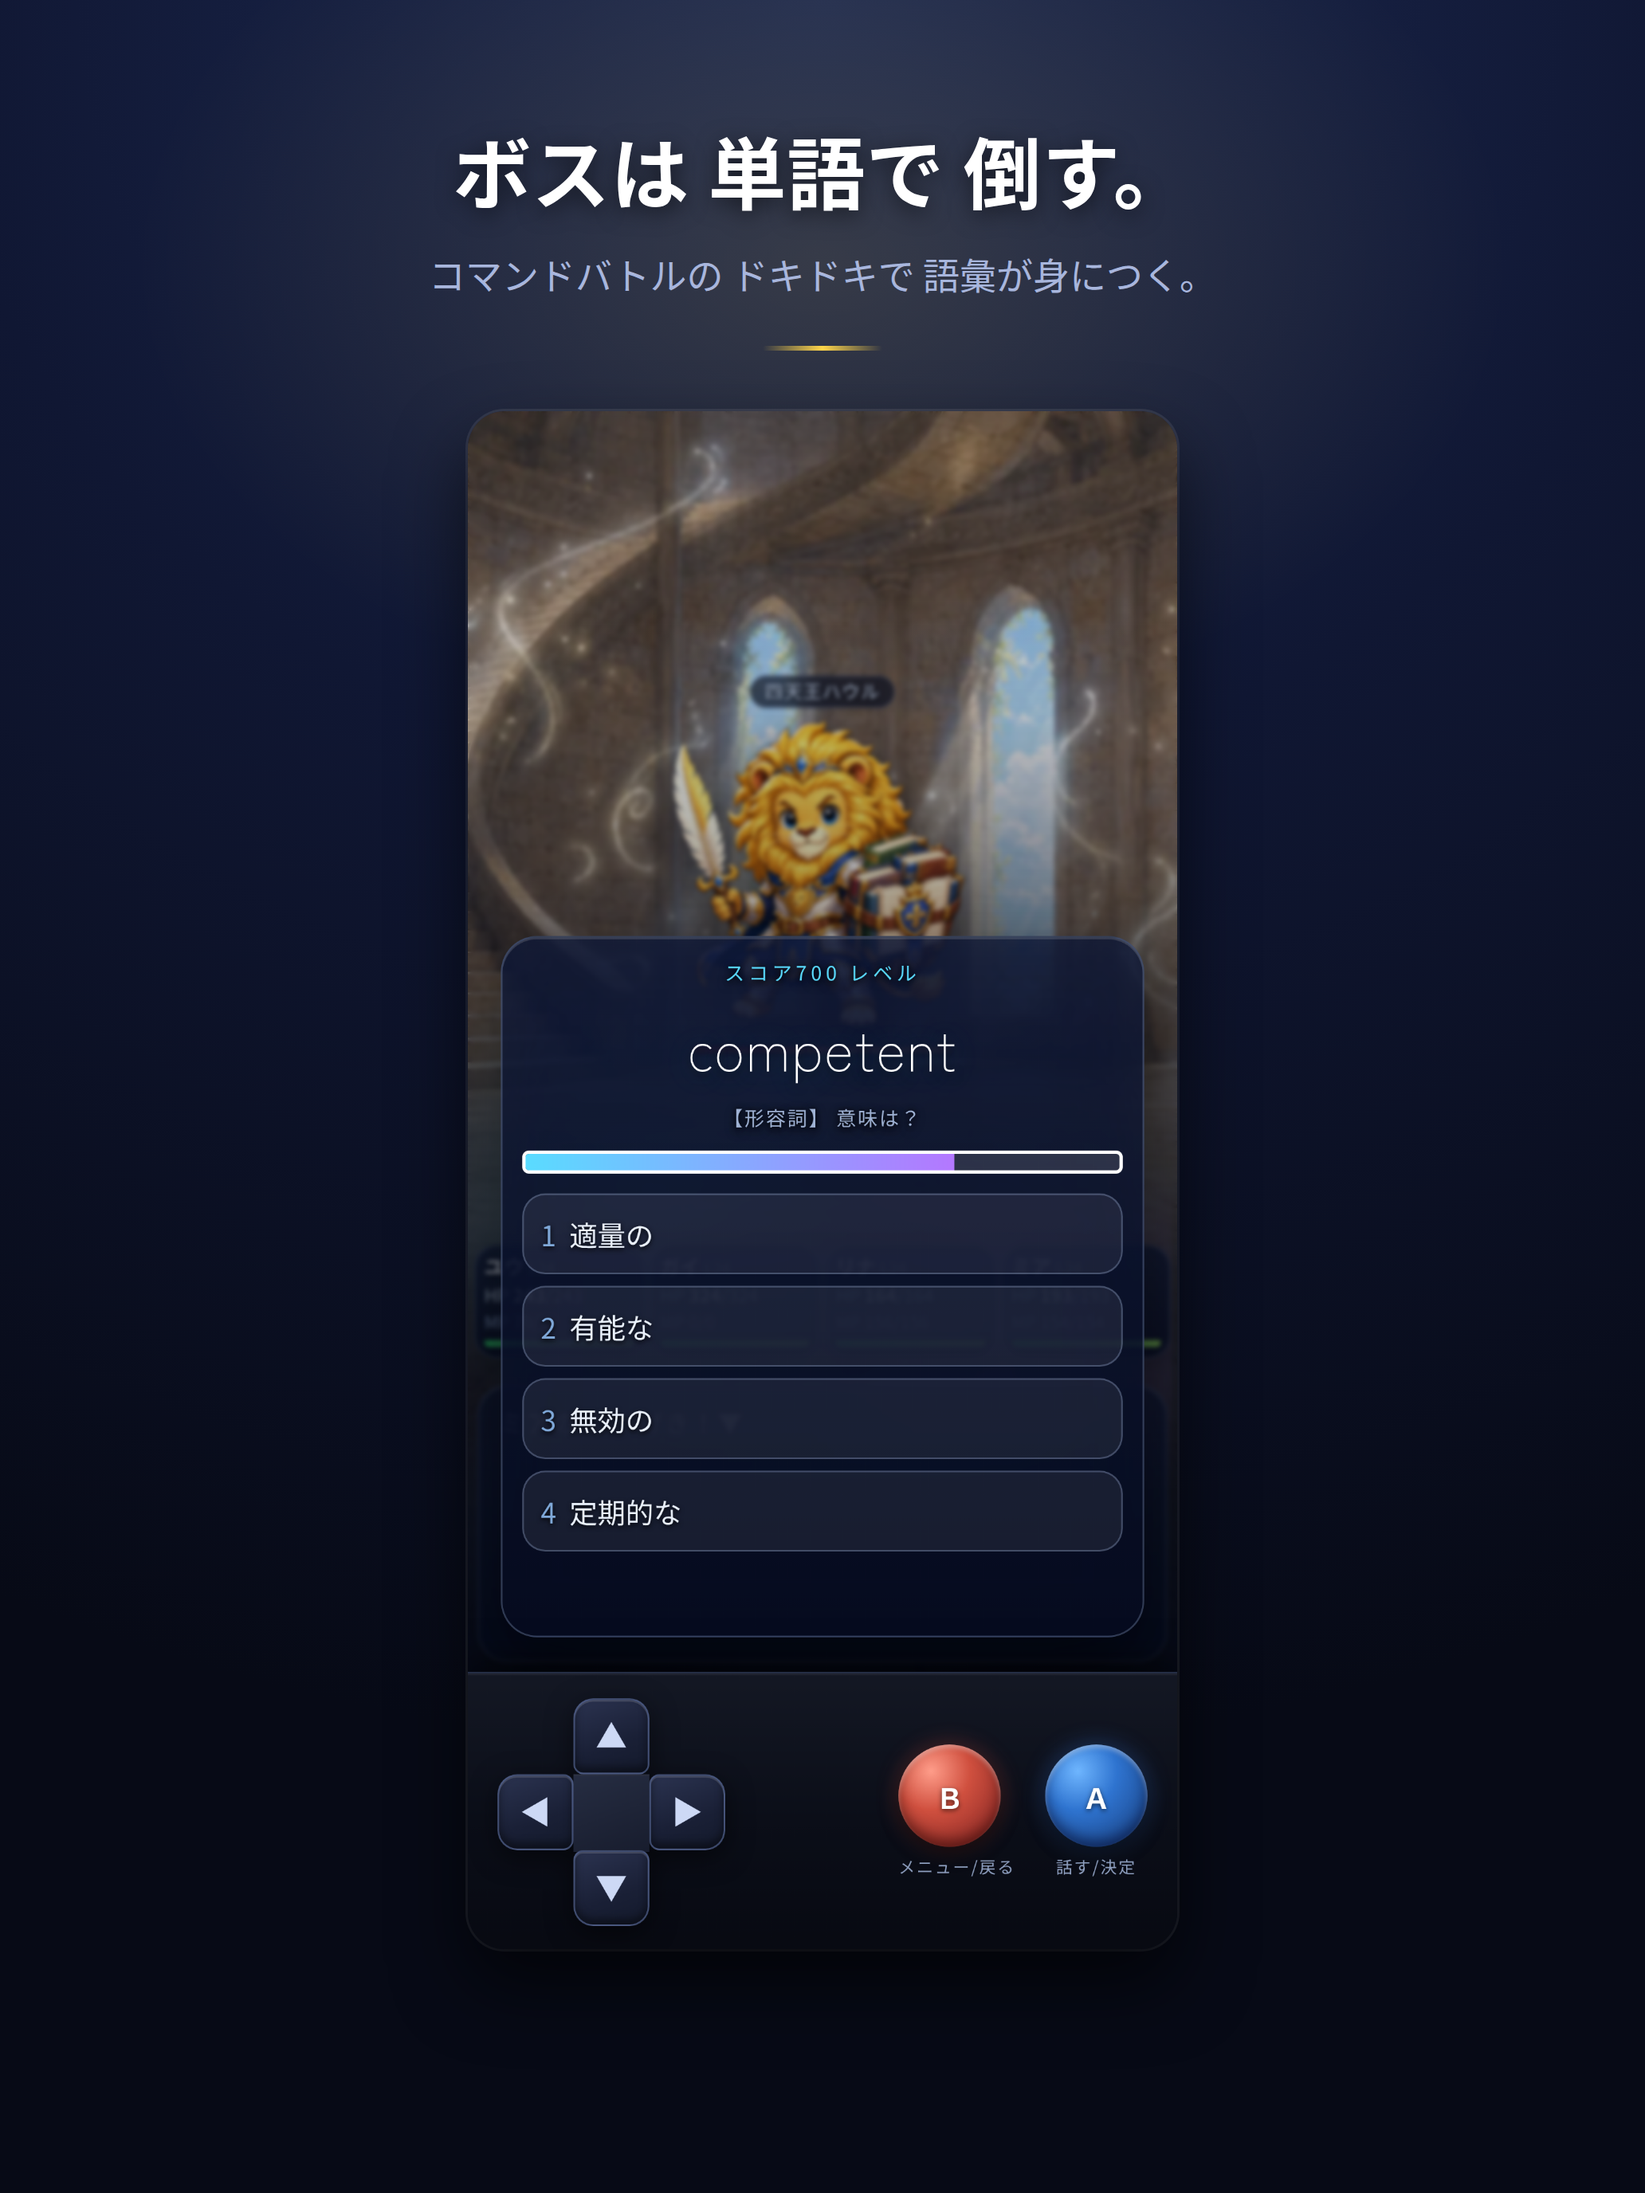
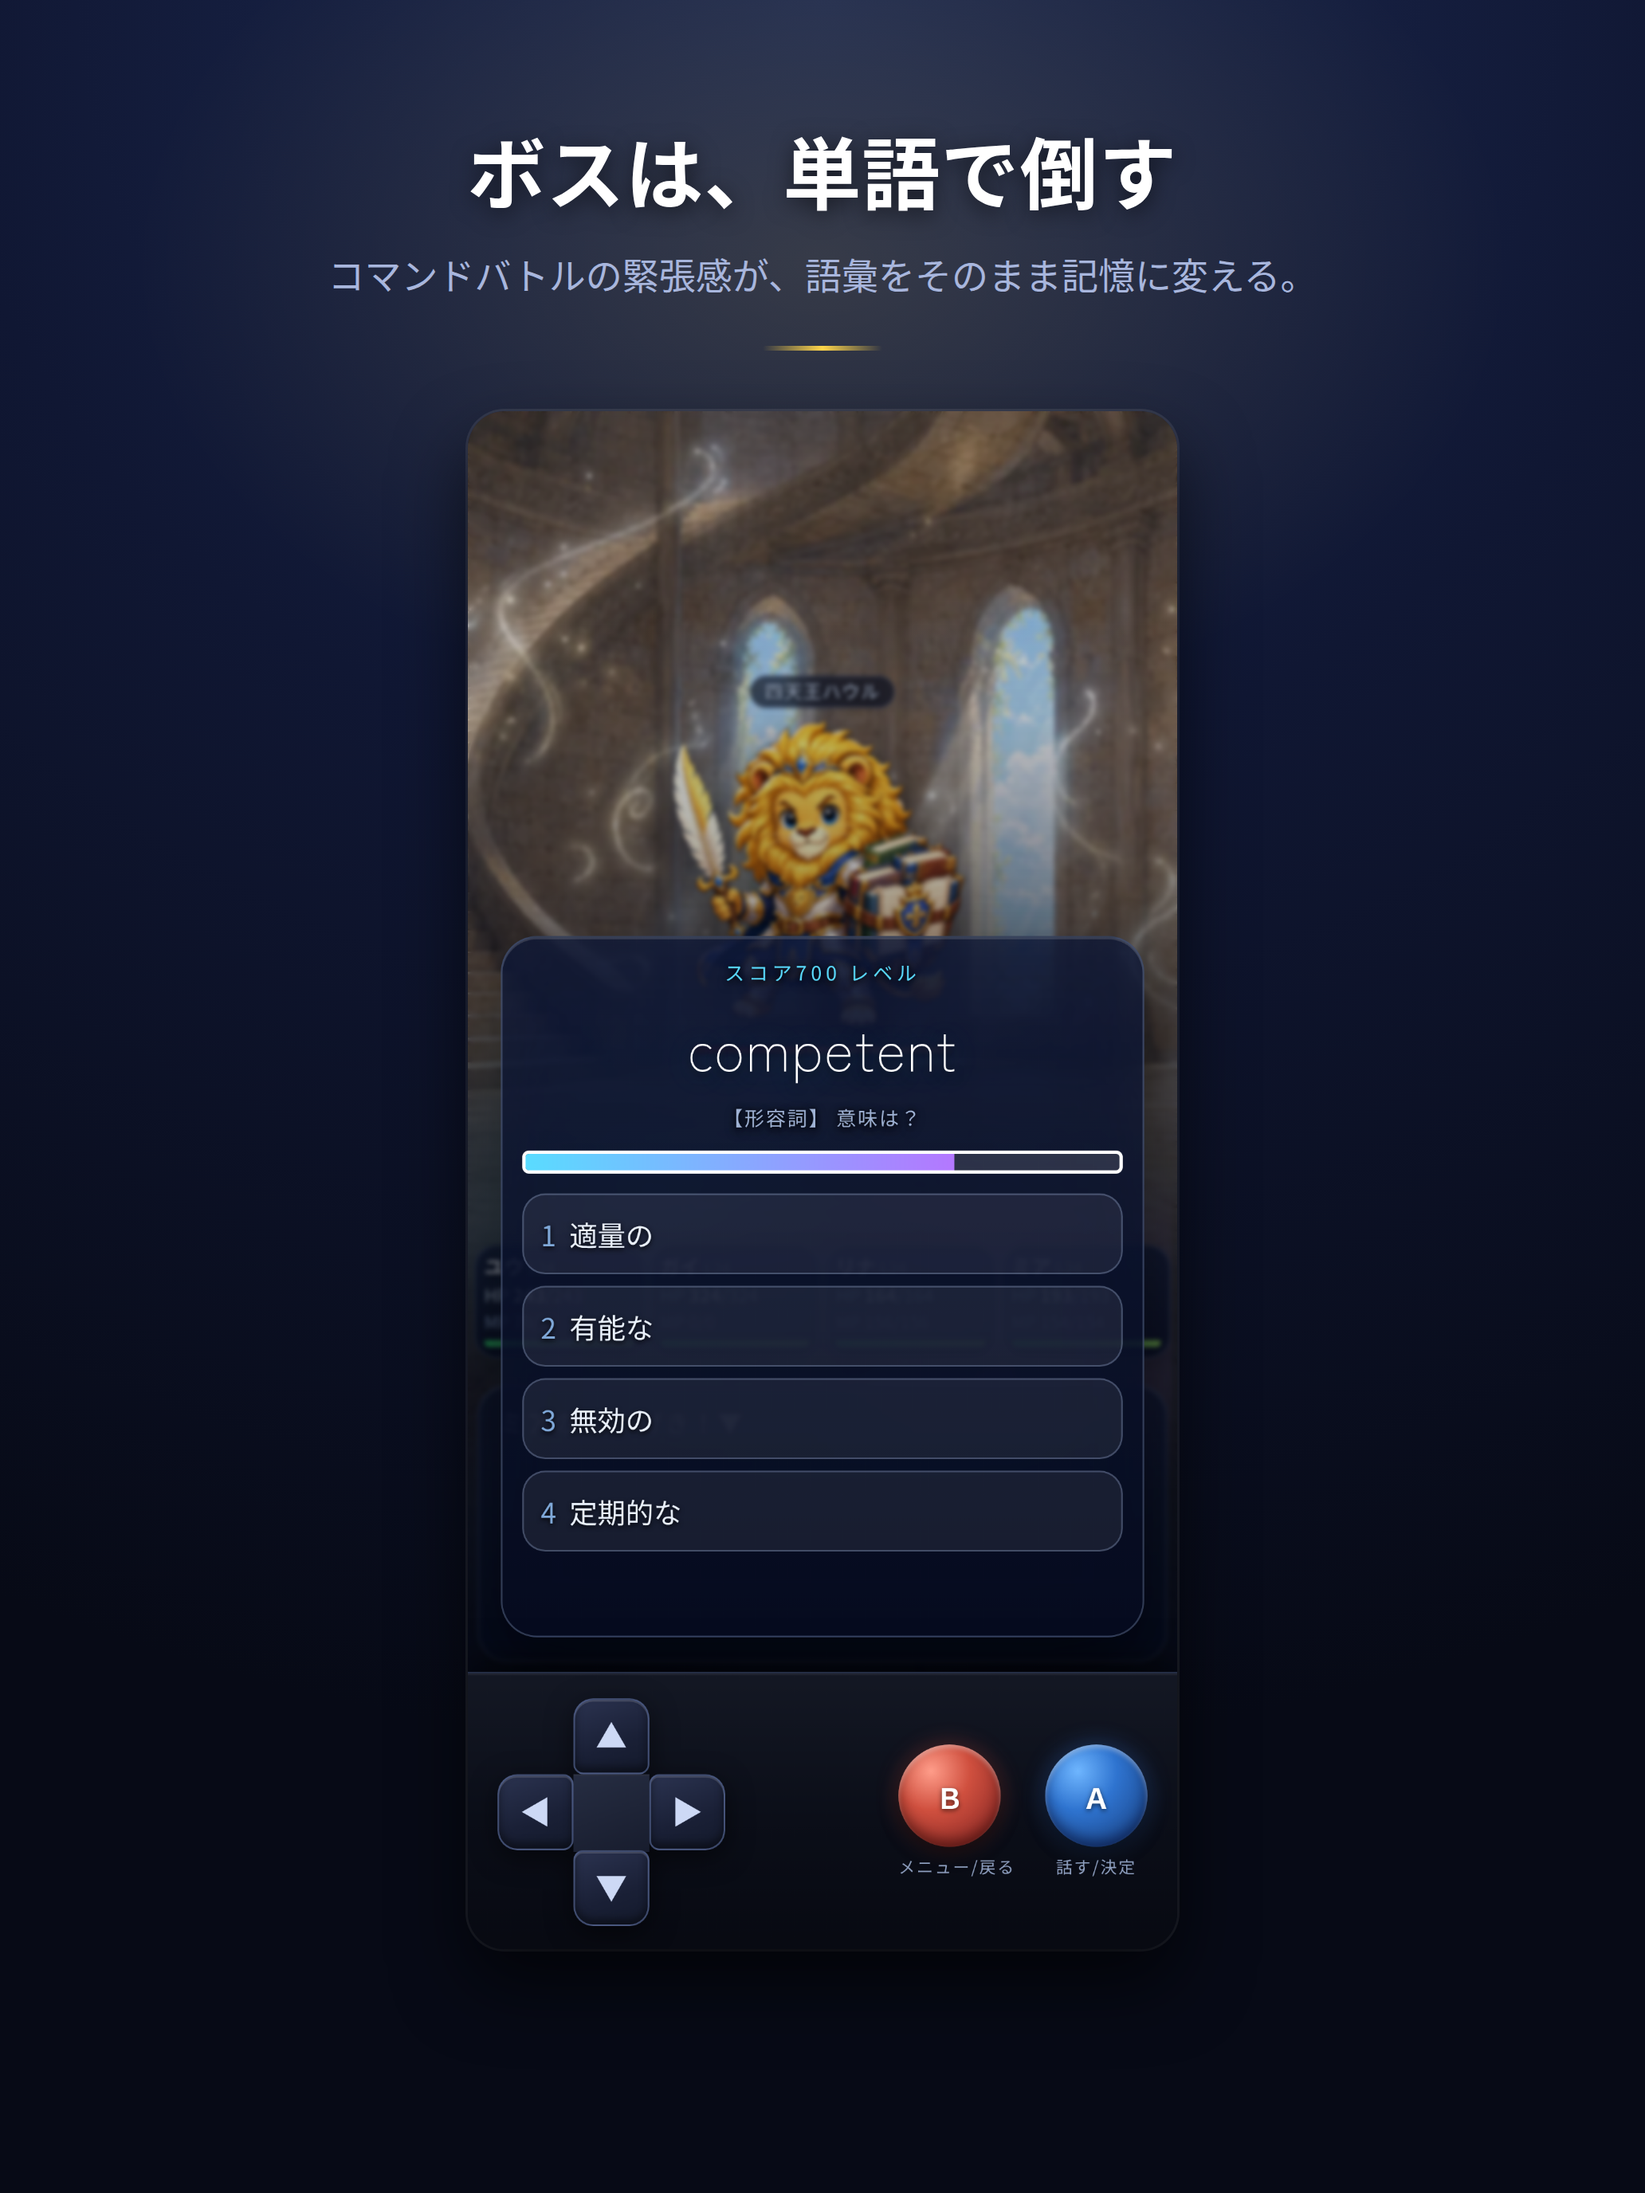
iPadスクリーンショットの文言を漢字に直す
ゲーム内の戦闘コマンドをひらがなにしているのは操作の読みやすさの
ためで、店頭の文章まで開く理由はない。分かち書きもやめる。
03のキャッチコピーは家族が考えたものなので手を入れていない。

Claude-Session: https://claude.ai/code/session_01FnVhb4STeLenZzKBowdTQv

Changed region(s): [[0.2791, 0.0625, 0.7442, 0.1562]]

diff --git a/tools/make_ipad_shots.js b/tools/make_ipad_shots.js
@@ -24,13 +24,16 @@ var OUT = path.join(root, "store", "upload", "13inch");
 var EXE = "/opt/pw-browsers/chromium-1194/chrome-linux/chrome";
 var W = 2064, H = 2752;   // 13インチiPad（Apple指定の縦）
 
+// ゲーム内の戦闘コマンドはひらがなで統一しているが、ここは店頭の文章なので
+// 漢字で書く。分かち書きもしない（アプリの外では読みにくいだけ）。
+// 03 のキャッチコピーは家族が考えたものなので、一字も変えないこと。
 var SHOTS = [
-  { file: "01_quiz.png",     title: "たたかいながら、覚える。",   sub: "4択に答えると 剣がとぶ。まちがえたら 反撃をうける。" },
-  { file: "02_boss.png",     title: "ボスは 単語で 倒す。",       sub: "コマンドバトルの ドキドキで 語彙が身につく。" },
+  { file: "01_quiz.png",     title: "戦いながら、英単語を覚える",  sub: "4択に答えると剣が飛ぶ。まちがえたら反撃を受ける。" },
+  { file: "02_boss.png",     title: "ボスは、単語で倒す",         sub: "コマンドバトルの緊張感が、語彙をそのまま記憶に変える。" },
   { file: "03_title.png",    title: "単語帳を開くより、冒険しよう。", sub: "WORD QUEST 英単語RPG" },
-  { file: "04_grades.png",   title: "中学英語から TOEIC®まで。",  sub: "中1・中2・中3・高校基礎・大学入試・難関大／スコア別の6段階。" },
-  { file: "05_wordbook.png", title: "出会った単語は 単語帳に。",   sub: "意味・発音・正解率を いつでも 見返せる。" },
-  { file: "06_records.png",  title: "称号と記録で、続く。",       sub: "最速タイム、最大チェイン、制覇回数。" }
+  { file: "04_grades.png",   title: "中学英語から TOEIC®まで",    sub: "中1・中2・中3・高校基礎・大学入試・難関大／スコア別の6段階。" },
+  { file: "05_wordbook.png", title: "出会った単語は、単語帳に残る", sub: "意味・発音・正解率を、いつでも見返せる。" },
+  { file: "06_records.png",  title: "称号と記録が、次の一戦を呼ぶ", sub: "最速タイム、最大チェイン、制覇回数。" }
 ];
 
 function dataUri(p) {
